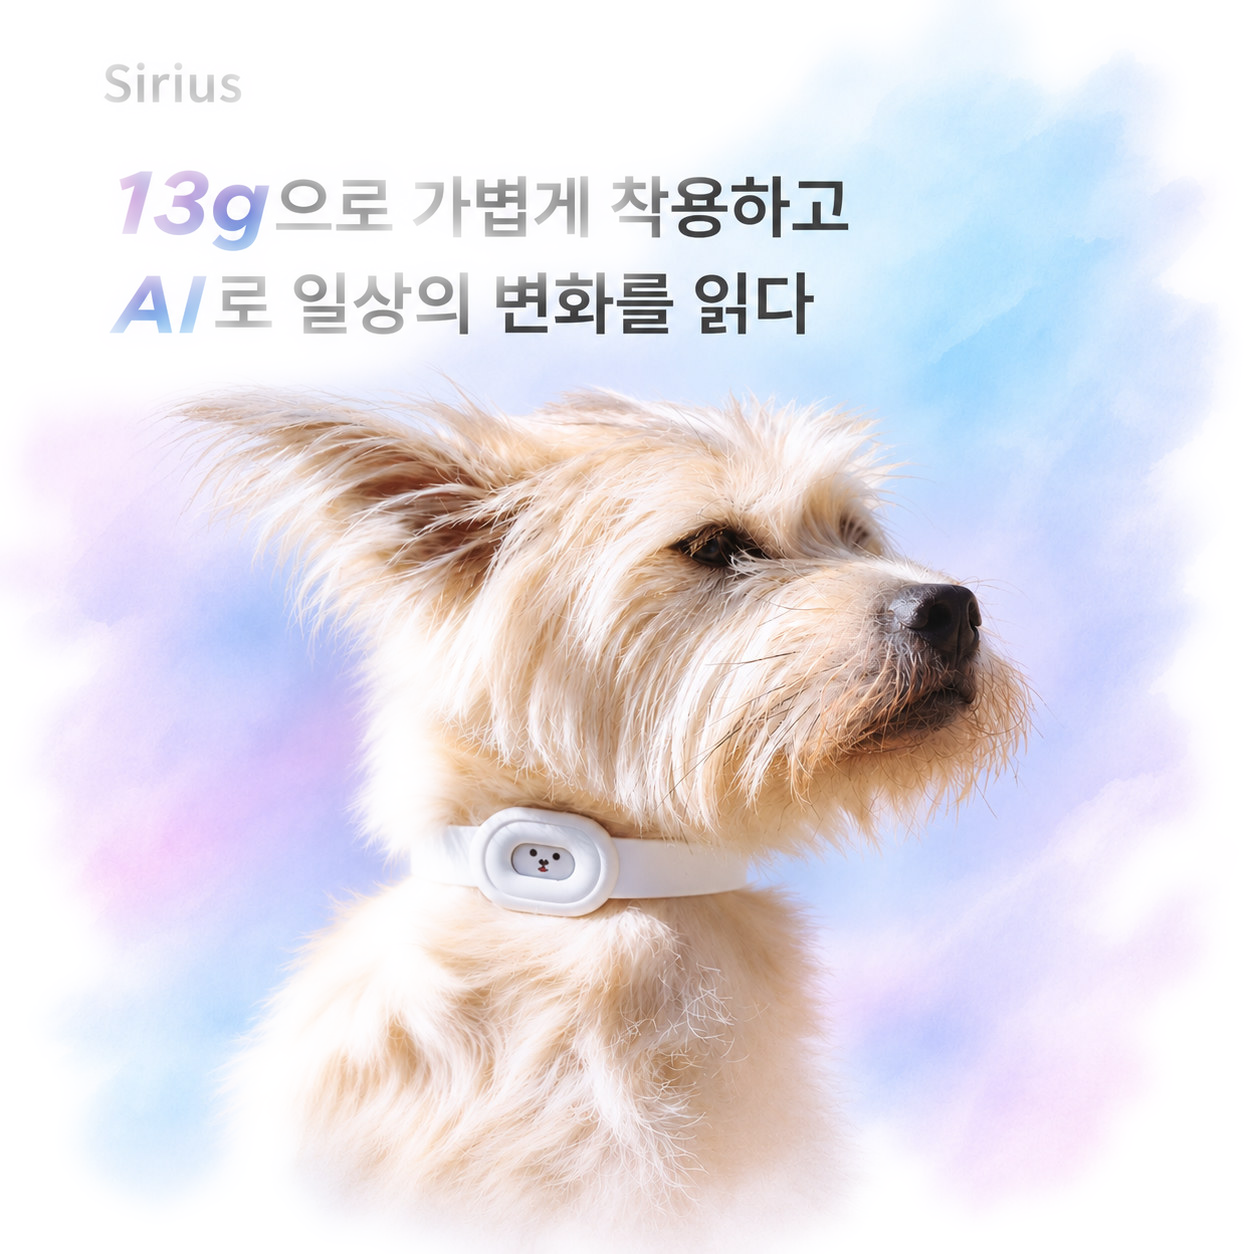
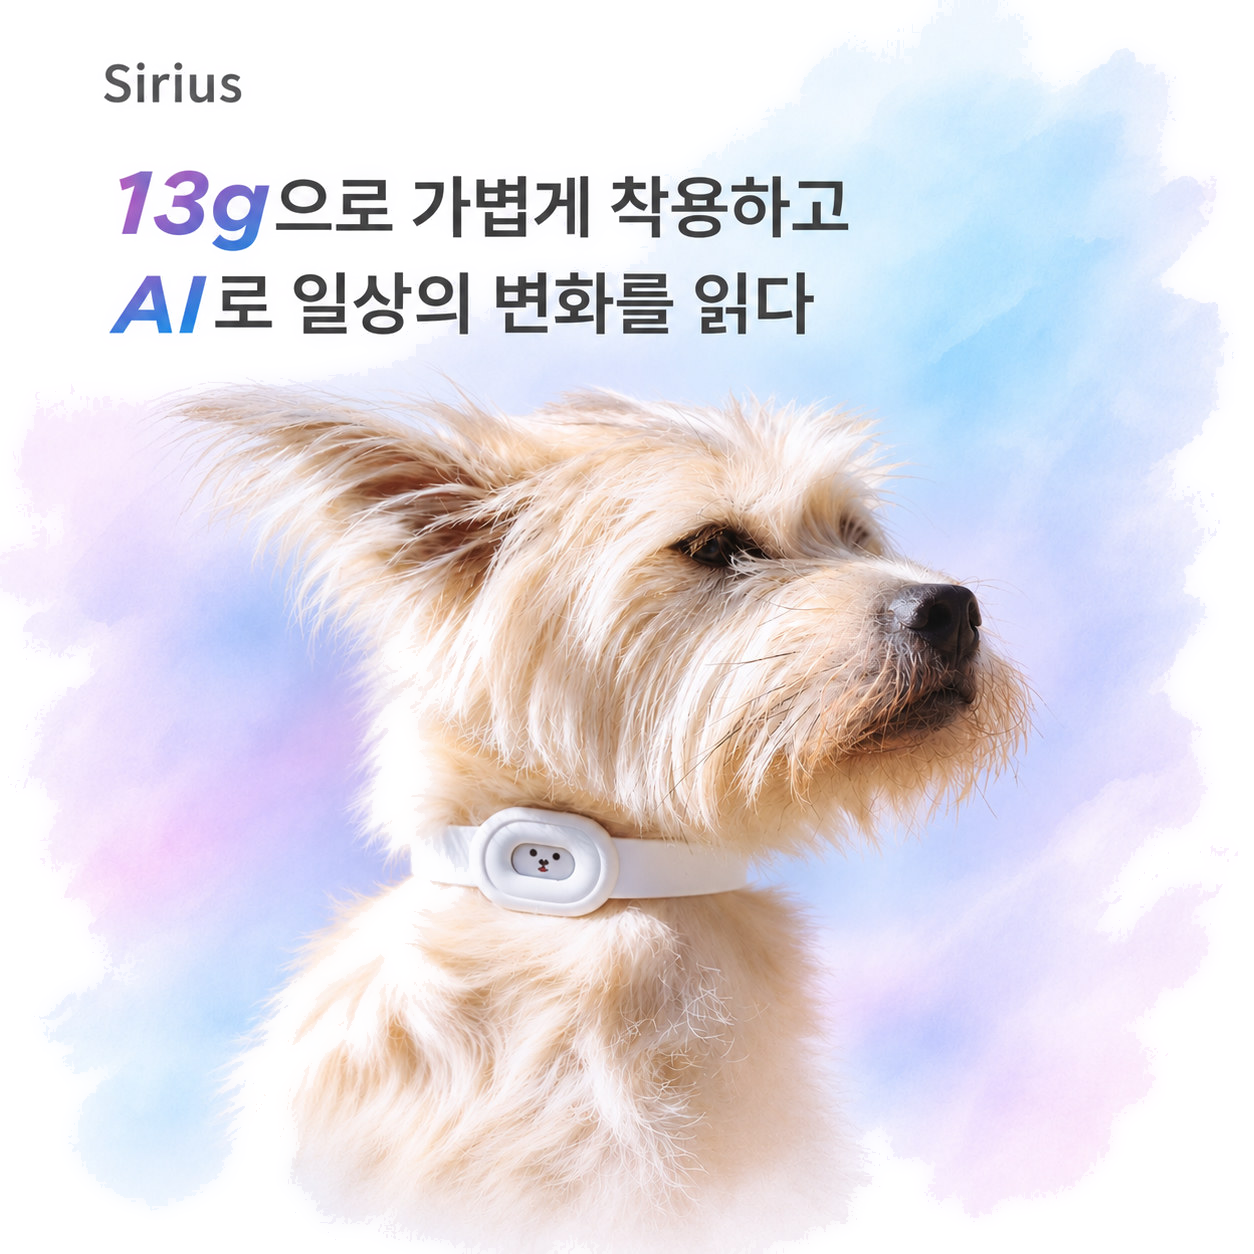
반려견 사진의 글자는 불투명하게 두고 선명하게 둔다.

Changed region(s): [[0.0933, 0.1244, 0.5598, 0.2799], [0.0933, 0.0311, 0.1866, 0.0933]]

diff --git a/src/main.js b/src/main.js
@@ -510,6 +510,10 @@ async function boot() {
     const texture = await loader.loadAsync(`${import.meta.env.BASE_URL}brand/tracker-dogs.png`);
     texture.colorSpace = THREE.SRGBColorSpace;
     texture.anisotropy = anisotropy;
+    // Mipmaps soften the headline. Sample the photo directly so the type stays sharp.
+    texture.generateMipmaps = false;
+    texture.minFilter = THREE.LinearFilter;
+    texture.magFilter = THREE.LinearFilter;
     const aspect = texture.image.width / texture.image.height;
     if (aspect > 1) {
       const repeatX = 1 / aspect;
